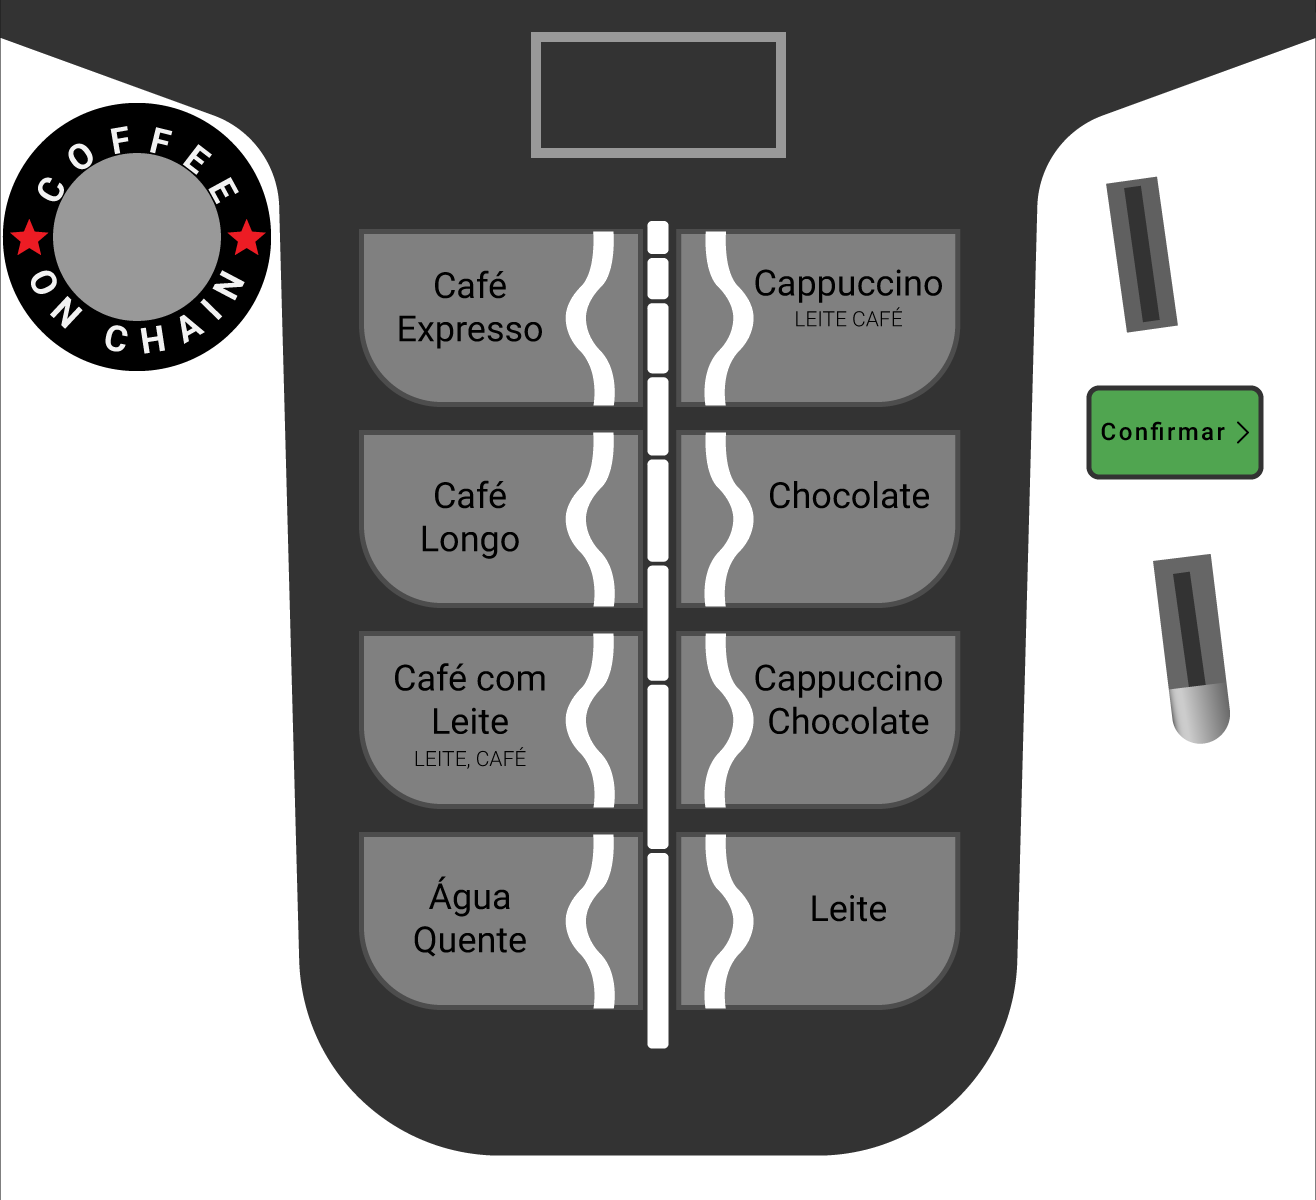
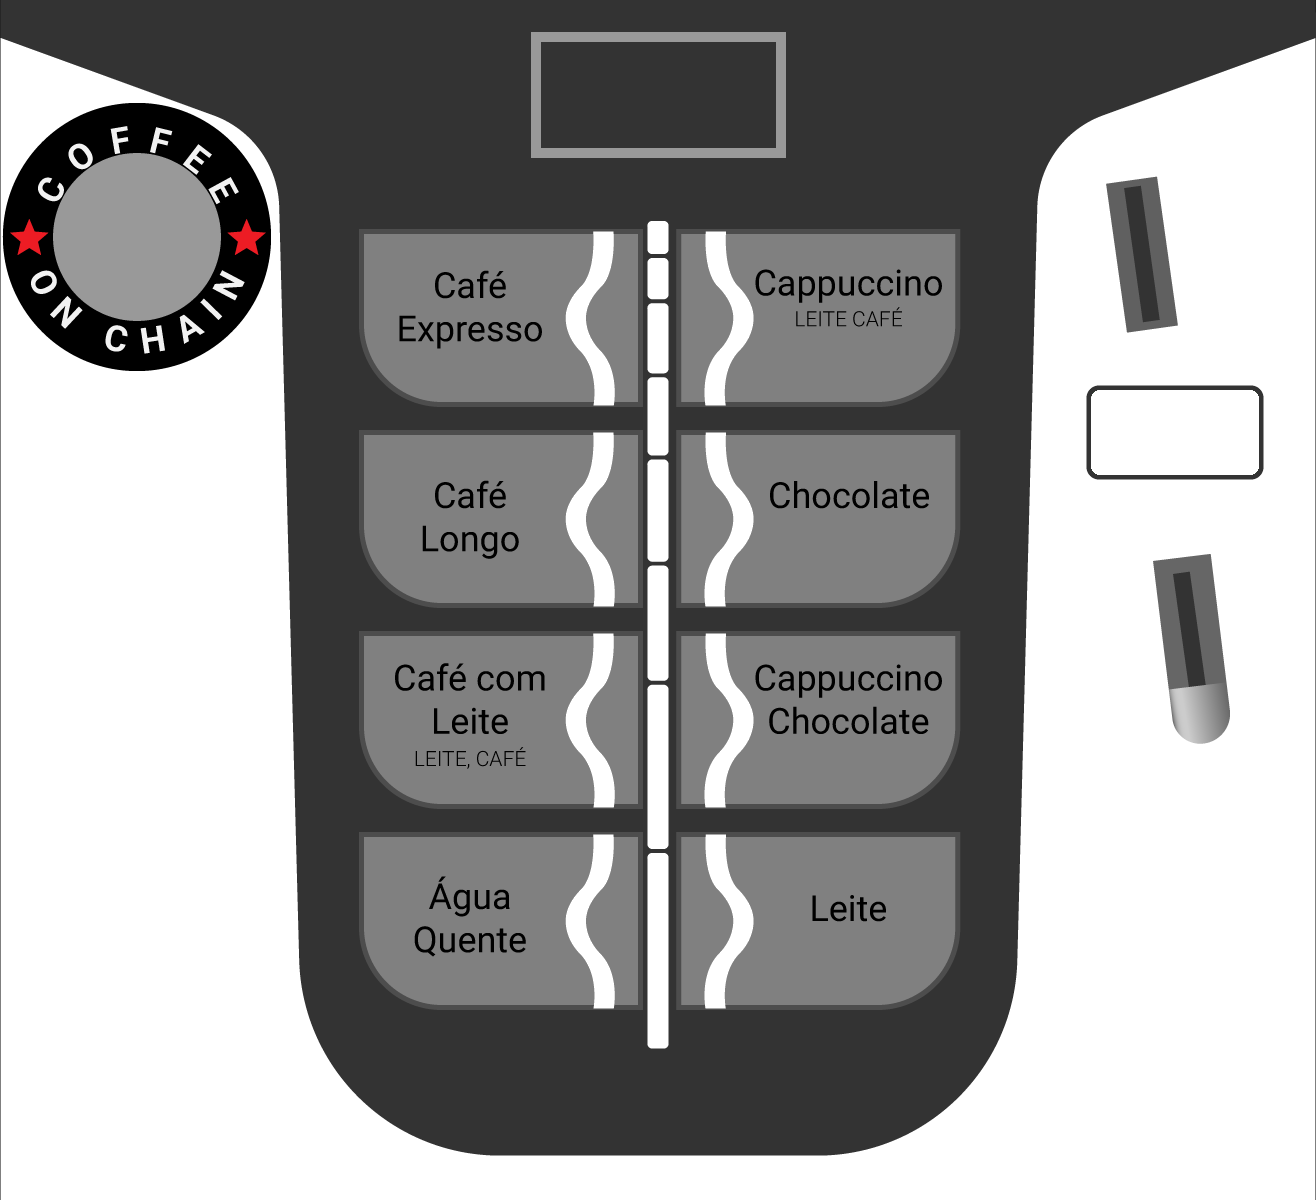
Add buttons / Display

Changed region(s): [[0.81, 0.3083, 0.9658, 0.4008]]

diff --git a/frontend/src/App.js b/frontend/src/App.js
@@ -1,6 +1,7 @@
 import React from 'react';
 import './App.css';
 import Button from './button';
+import Display from './display';
 
 class App extends React.Component {
 
@@ -9,24 +10,109 @@ class App extends React.Component {
     this.state = {
       width: window.innerWidth,
       height: window.innerHeight,
-      ratio: (1316 / 1200)
+      ratio: (1316 / 1200),
+      btnClick: -1,
+      textLed: ''
     }
     window.addEventListener("resize", this.updateWidthAndHeight);
     this.btn1 = {
       left: 462,
       top: 234
     }
+
+    this.buttons = [{
+      id: 1,
+      top: 19,
+      left: 27,
+      width: 21,
+      height: 14.5
+    },
+    {
+      id: 2,
+      top: 36,
+      left: 27,
+      width: 21,
+      height: 14.5
+    },
+    {
+      id: 3,
+      top: 52.7,
+      left: 27,
+      width: 21,
+      height: 14.5
+    },
+    {
+      id: 4,
+      top: 69.5,
+      left: 27,
+      width: 21,
+      height: 14.5
+    },
+    {
+      id: 5,
+      top: 19,
+      left: 52,
+      width: 21,
+      height: 14.5
+    },
+    {
+      id: 6,
+      top: 36,
+      left: 52,
+      width: 21,
+      height: 14.5
+    },
+    {
+      id: 7,
+      top: 52.7,
+      left: 52,
+      width: 21,
+      height: 14.5
+    },
+    {
+      id: 8,
+      top: 69.5,
+      left: 52,
+      width: 21,
+      height: 14.5,
+    },
+    {
+      id: 9,
+      top: 32,
+      left: 82,
+      width: 14,
+      height: 8,
+      component: (<><br></br><li>Confirmar</li></>)
+    }
+    ];
   }
+
 
   componentDidMount() {
     this.updateWidthAndHeight()
   }
 
+  componentDidUpdate() {
+
+  }
+
+  handleClickButton({ id }) {
+
+    const { btnClick } = this.state;
+
+    if (btnClick === id) {
+      return this.setState({ btnClick: -1 })
+    }
+
+    this.setState({ btnClick: id })
+  }
+
+
   updateWidthAndHeight = () => {
     const { ratio } = this.state;
     let width = window.innerWidth;
     let height = width / ratio;
-    if (window.innerHeight<height) {
+    if (window.innerHeight < height) {
       height = window.innerHeight;
       width = window.innerHeight * ratio
     }
@@ -37,15 +123,30 @@ class App extends React.Component {
   };
 
   render() {
-    const { width, height } = this.state;
-    
+    const { width, height, btnClick } = this.state;
+
     return (
       <div className="App">
         <div className="app-background" style={{ width, height }}>
-          <Button top={19} left={27} width={21} height={14.5} active={false}/>
-          <Button top={36} left={27} width={21} height={14.5} active={false}/>
+          {this.buttons.map(button => (
+            <Button onClick={() => this.handleClickButton(button)} top={button.top} left={button.left} width={button.width} height={button.height} active={btnClick == button.id ? true : false} component={button.component} />
+          ))}
+          <div className="app-display">
+            <Display top={3.5} left={41.2} width={17.8} height={8.9} active={true} component={"CoffeeOnChain"} />
 
+          </div>
+
+          {/* 
+          <Button onClick={() => this.setState({ btnClick: 1 })} top={19} left={27} width={21} height={14.5} active={this.state.btnClick === 1 ? true : false} />
+          <Button onClick={() => this.setState({ btnClick: 2 })} top={36} left={27} width={21} height={14.5} active={this.state.btnClick === 2 ? true : false} />
+          <Button onClick={() => this.setState({ btnClick: 3 })} top={52.7} left={27} width={21} height={14.5} active={this.state.btnClick === 3 ? true : false} />
+          <Button onClick={() => this.setState({ btnClick: 4 })} top={69.5} left={27} width={21} height={14.5} active={this.state.btnClick === 4 ? true : false} />
+          <Button onClick={() => this.setState({ btnClick: 5 })} top={19} left={52} width={21} height={14.5} active={this.state.btnClick === 5 ? true : false} />
+          <Button onClick={() => this.setState({ btnClick: 6 })} top={36} left={52} width={21} height={14.5} active={this.state.btnClick === 6 ? true : false} />
+          <Button onClick={() => this.setState({ btnClick: 7 })} top={52.7} left={52} width={21} height={14.5} active={this.state.btnClick === 7 ? true : false} />
+          <Button onClick={() => this.setState({ btnClick: 8 })} top={69.5} left={52} width={21} height={14.5} active={this.state.btnClick === 8 ? true : false} /> */}
         </div>
+
 
       </div>
     );

diff --git a/frontend/src/button/index.js b/frontend/src/button/index.js
@@ -3,24 +3,30 @@ import './styles.css';
 
 export default function Button(props) {
 
-    return (
-        <div className="buttonStyle" style={{
-            top: `${props.top || 18}%`,
-            left: `${props.left || 30}%`,
-            width: `${props.width || 18}%`,
-            height: `${props.height || 14}%`,
-          }}>
-          <div style={{
-              zIndex: -2,
-            position: 'relative',
-            left: '75%',
-            height: '100%',
-            width: '20%',
-            backgroundColor: `${props.active?'green':'white'}`
-          }}></div>
-        </div>
-        
-    );
+  return (
+    <div className="buttonStyle" style={{
+      top: `${props.top || 18}%`,
+      left: `${props.left || 30}%`,
+      width: `${props.width || 18}%`,
+      height: `${props.height || 14}%`,
+    }} onClick={props.onClick} >
+      <div style={{
+        zIndex: -2,
+        position: 'relative',
+        left: `${props.left > 30 ? '0%' : '75%'}`,
+        height: '100%',
+        width: `${props.left > 79 ? '100%' : '25%'}`,
+        backgroundColor: `${props.active ? '#2e7d32' : 'rgba(238, 238, 238, 0.9)'}`,
+        pointerEvents: `${props.active ? 'none' : 'auto'}`
+      }} >
+        {
+          props.component
+        }
+      </div>
+
+    </div >
+
+  );
 }
 
 

diff --git a/frontend/src/display/index.js b/frontend/src/display/index.js
@@ -1,0 +1,31 @@
+import React from 'react';
+import './custom.css';
+
+export default function Display(props) {
+
+  return (
+    <div className="displayStyle" style={{
+      top: `${props.top || 18}%`,
+      left: `${props.left || 30}%`,
+      width: `${props.width || 18}%`,
+      height: `${props.height || 14}%`,
+    }}>
+      <div style={{
+        zIndex: 0,
+        position: 'relative',
+        left: '0%',
+        height: '100%',
+        width: '100%',
+        backgroundColor: '#2e7d32',
+      }} >
+        {
+          props.component
+        }
+      </div>
+
+    </div >
+
+  );
+}
+
+

diff --git a/frontend/src/display/custom.css b/frontend/src/display/custom.css
@@ -1,8 +1,7 @@
-.buttonStyle {
+.displayStyle {
     position: absolute;
     color: black;
     /* border: 1px;
     border-color: aqua;
-    border-style: solid; */
-    cursor: pointer;
+    border-style: solid */
 }

diff --git a/frontend/src/App.css b/frontend/src/App.css
@@ -22,5 +22,5 @@
   display: block;
   margin-left: auto;
   margin-right: auto;
-  position: relative;
+  position: relative;  
 }
